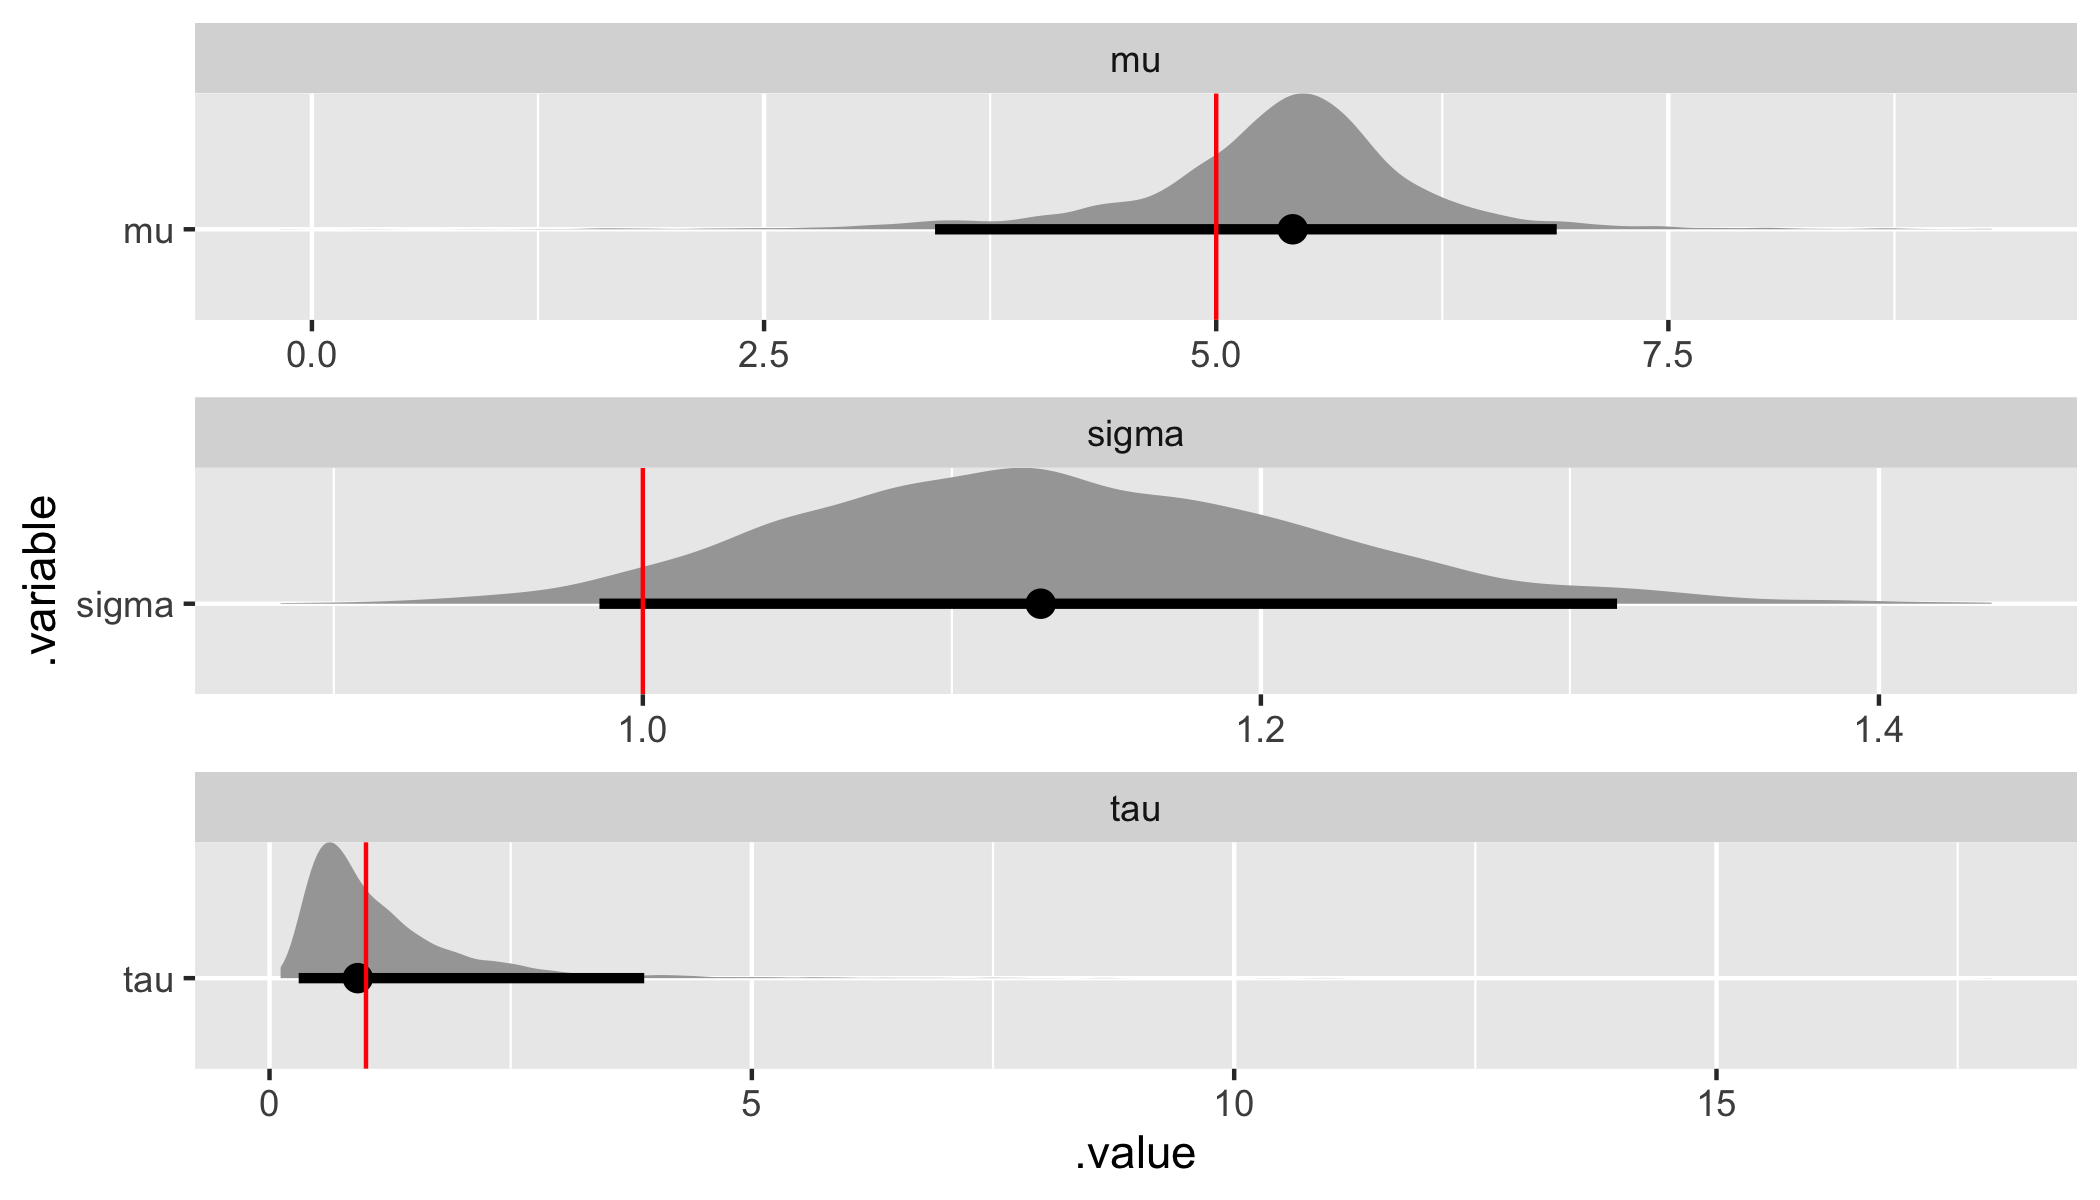
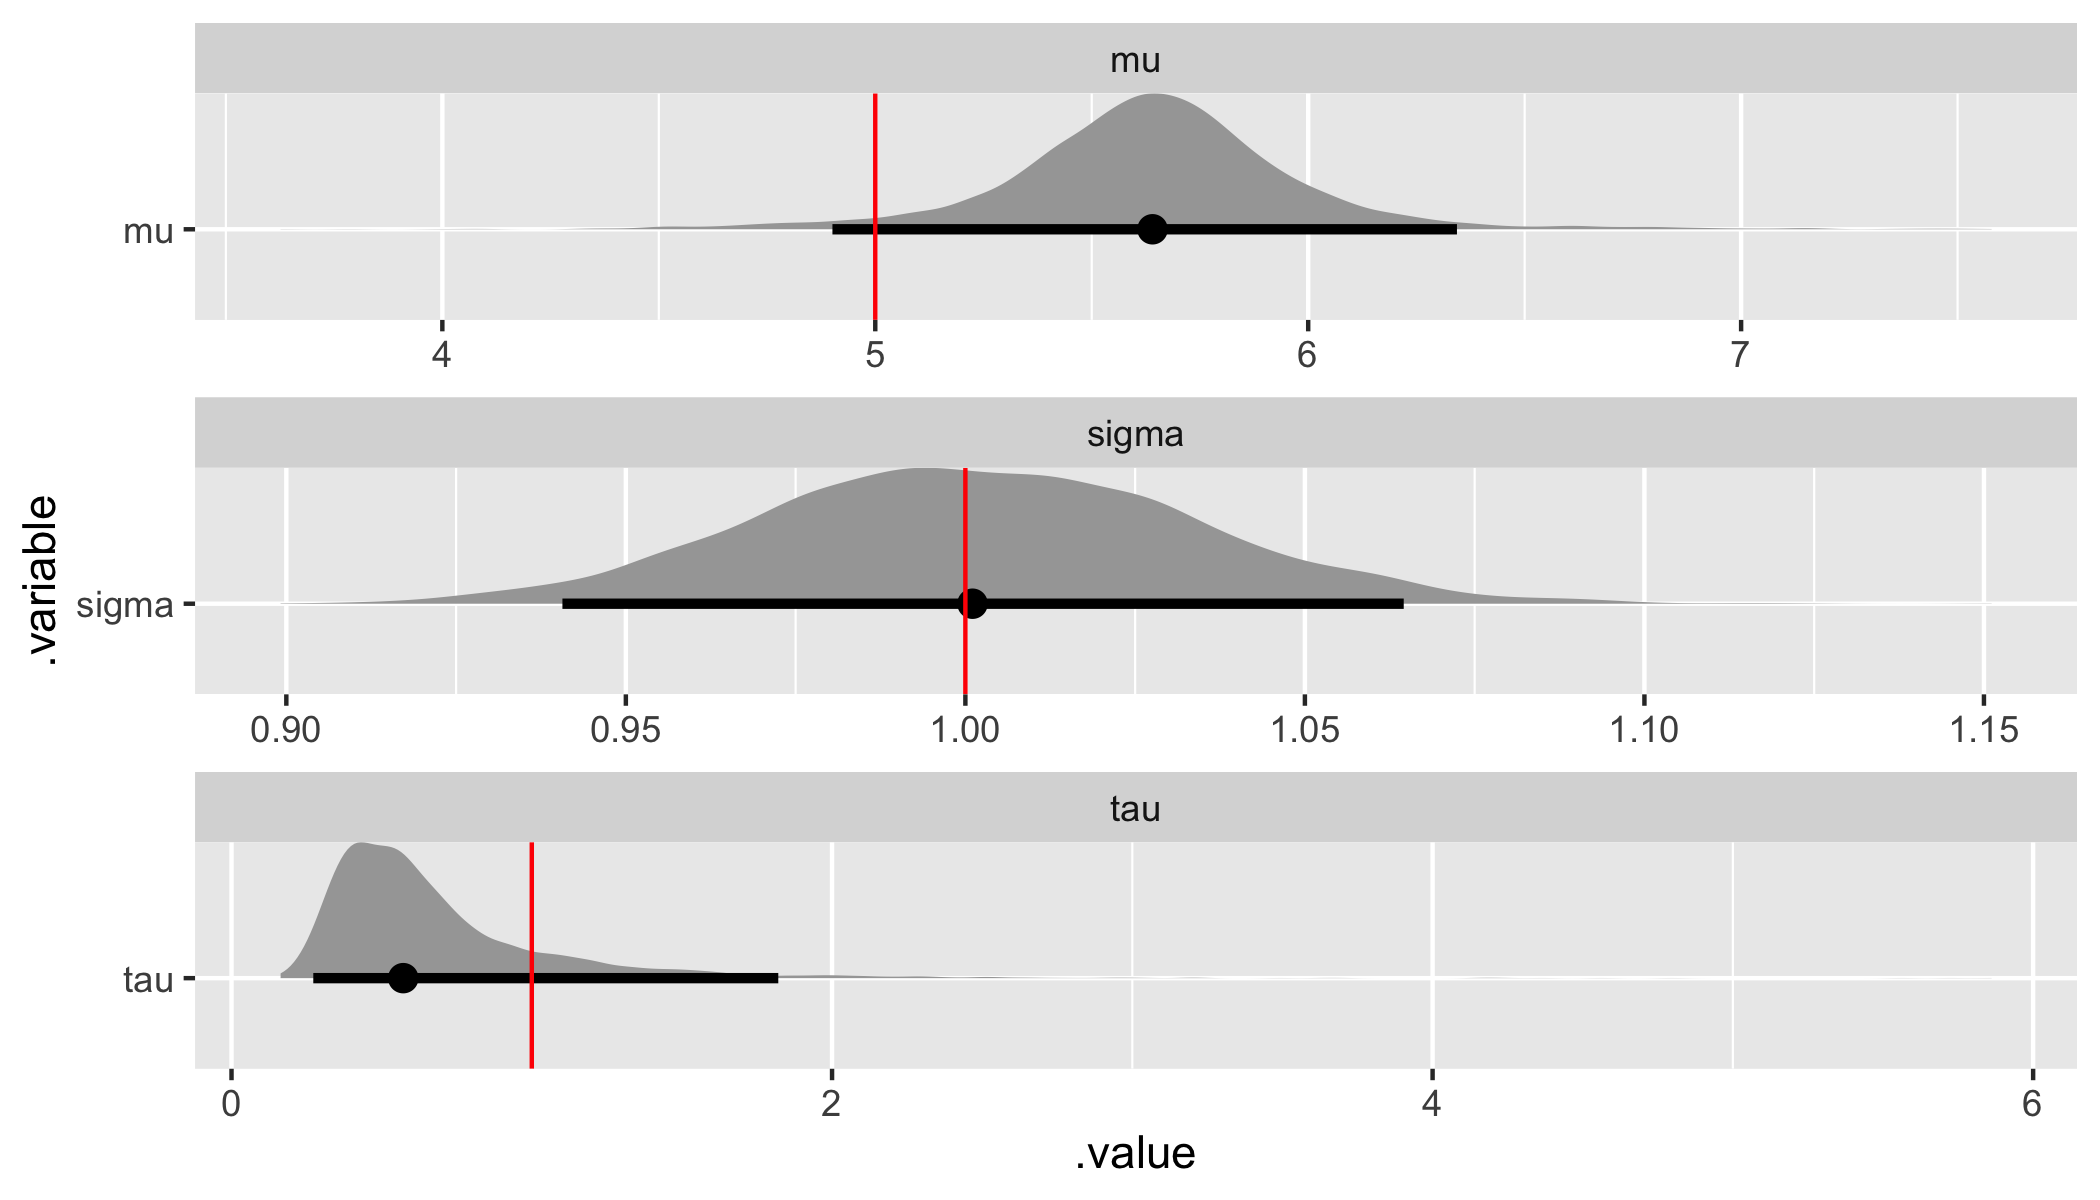
Updated simple hierarchical regression priors

diff --git a/content/post/stan-hierarchical/index.html b/content/post/stan-hierarchical/index.html
@@ -138,7 +138,7 @@ fit %&gt;%
   )</code></pre>
 <p><img src="Figures/mcmc_trace-00.png" width="1000" /></p>
 <p>We have good mixing and clear convergence across all chains for both of our model parameters.</p>
-<p>Finally, we can demonstrate parameter recovery by plotting the marginal posteriors for each of our parameters to confirm that the assumed parameter values used when generating data are within reasonable, typically 95%, credible intervals.</p>
+<p>Finally, we can demonstrate parameter recovery by plotting the marginal posteriors for each of our parameters to confirm that the assumed parameter values used when generating data are within or near reasonable credible intervals.</p>
 <pre class="r"><code># Recover parameter values.
 par_values &lt;- tibble(
   .variable = c(&quot;mu&quot;, &quot;tau&quot;),
@@ -156,7 +156,7 @@ fit %&gt;%
     scales = &quot;free&quot;
   )</code></pre>
 <p><img src="Figures/marginals-00.png" width="1000" /></p>
-<p>The assumed parameter values (in red) have been recovered by the model (they are contained within the customary 95% credible interval)! In summary, we’ve specified a simple regression model in Stan, generated data according to that model, and used the generated data to demonstrate that the model is working as intended.</p>
+<p>The assumed parameter values (in red) have been recovered by the model (they are in or nearly within a customary 95% credible interval)! In summary, we’ve specified a simple regression model in Stan, generated data according to that model, and used the generated data to demonstrate that the model is working as intended.</p>
 </div>
 <div id="simple-hierarchical-regression" class="section level2">
 <h2>Simple hierarchical regression</h2>
@@ -172,9 +172,9 @@ data {
 
 // Parameters and hyperparameters.
 parameters {
-  vector[K] beta;                 // Vector of group intercepts.
   real mu;                        // Mean of the population model.
   real&lt;lower = 0&gt; tau;            // Variance of the population model.
+  vector[K] beta;                 // Vector of group intercepts.
   real&lt;lower = 0&gt; sigma;          // Variance of the likelihood.
 }
 
@@ -182,10 +182,10 @@ parameters {
 model {
   // Hyperpriors.
   mu ~ normal(0, 5);
-  tau ~ cauchy(0, 2.5);
+  tau ~ normal(0, 5);
 
   // Prior.
-  sigma ~ cauchy(0, 2.5);
+  sigma ~ normal(0, 5);
 
   // Population model and likelihood.
   beta ~ normal(mu, tau);
@@ -194,7 +194,7 @@ model {
   }
 }</code></pre>
 <p>In the <code>data</code> block, we now have a vector <code>g</code> indicating which one of <code>K</code> groups each of our <code>N</code> individuals belong to. In the <code>parameter</code> block, we now have a <code>K</code>-dimensional vector of <code>beta</code> parameters, a separate mean for each of the <code>K</code> of groups. In the <code>model</code> block we can see that the likelihood (now within a for loop) is still assumed <code>normal</code>, but now each individual’s observed overall satisfaction has a mean of <code>beta</code> specific to the group they belong to. We also have a population model <code>beta ~ normal(mu, tau)</code> that says these separate, group-level <code>beta</code> coefficients are themselves drawn from a population that is assumed <code>normal</code> with a mean <code>mu</code> and variance <code>tau</code>.</p>
-<p>This is what is meant by a hierarchy: there are two levels to our model, the lower-level likelihood and the upper-level population model. Finally, our joint model is complete with a prior on the population model parameters (formally referred to as hyperpriors, since they are priors on a prior): a <code>normal</code> hyperprior on <code>mu</code> and a <code>cauchy</code> hyperprior on <code>tau</code>. Note that we are not assuming a hierarchy to the likelihood variance, now called <code>sigma</code>, so it retains the same prior.</p>
+<p>This is what is meant by a hierarchy: there are two levels to our model, the lower-level likelihood and the upper-level population model. Finally, our joint model is complete with a prior on the population model parameters (formally referred to as hyperpriors, since they are priors on a prior): <code>normal</code> hyperpriors on <code>mu</code> and <code>tau</code> (constrained to be positive). Note that we are not assuming a hierarchy to the likelihood variance, now called <code>sigma</code>, so it retains the same prior and positive constraint.</p>
 <p>We can again translate this Stan script, <code>hierarchical_regression_01.stan</code>, into <code>data</code> and <code>generated quantities</code> blocks called <code>generate_data_01.stan</code> to use Stan to generate data for us.</p>
 <pre class="stan"><code>// Index and hyperparameter values.
 data {
@@ -222,9 +222,9 @@ generated quantities {
 <p>Note that the <code>data</code> block now includes the assumed parameter values for the <em>hyperpriors</em> as data with <code>beta</code> being drawn alongside <code>y</code> in the <code>generated quantities</code> block. Let’s call this Stan script from R to generate data according to a hierarchical model.</p>
 <pre class="r"><code># Specify data and hyperparameter values.
 sim_values &lt;- list(
-  N = 100,                            # Number of observations.
-  K = 3,                              # Number of groups.
-  g = sample(3, 100, replace = TRUE), # Vector of group assignments.
+  N = 500,                            # Number of observations.
+  K = 5,                              # Number of groups.
+  g = sample(5, 500, replace = TRUE), # Vector of group assignments.
   mu = 5,                             # Mean of the population model.
   tau = 1,                            # Variance of the population model.
   sigma = 1                           # Variance of the likelihood.
